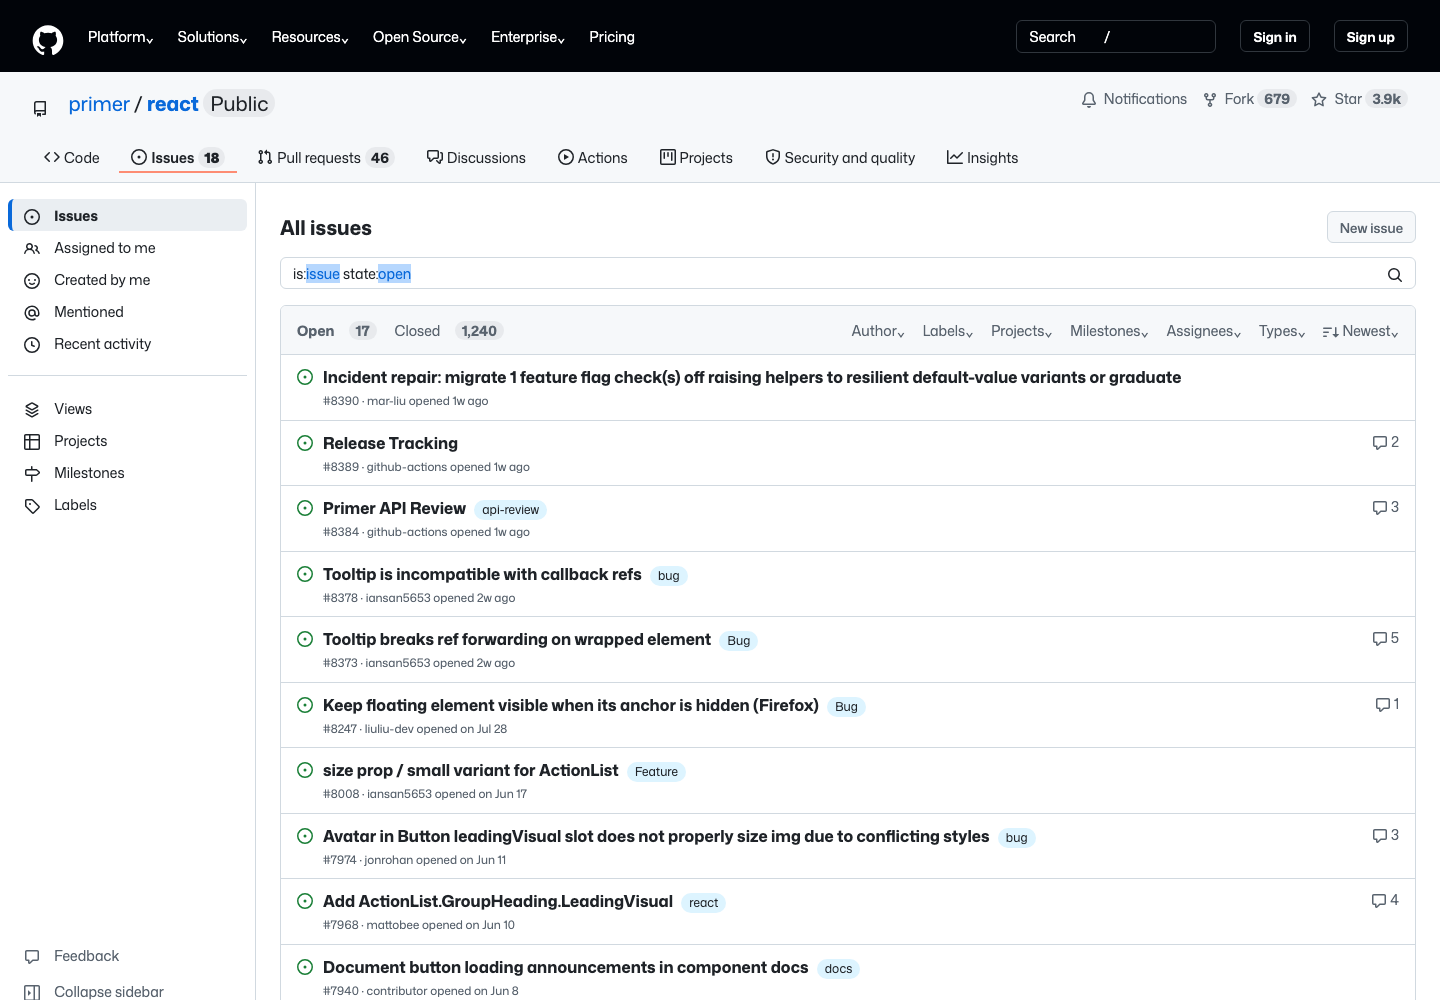
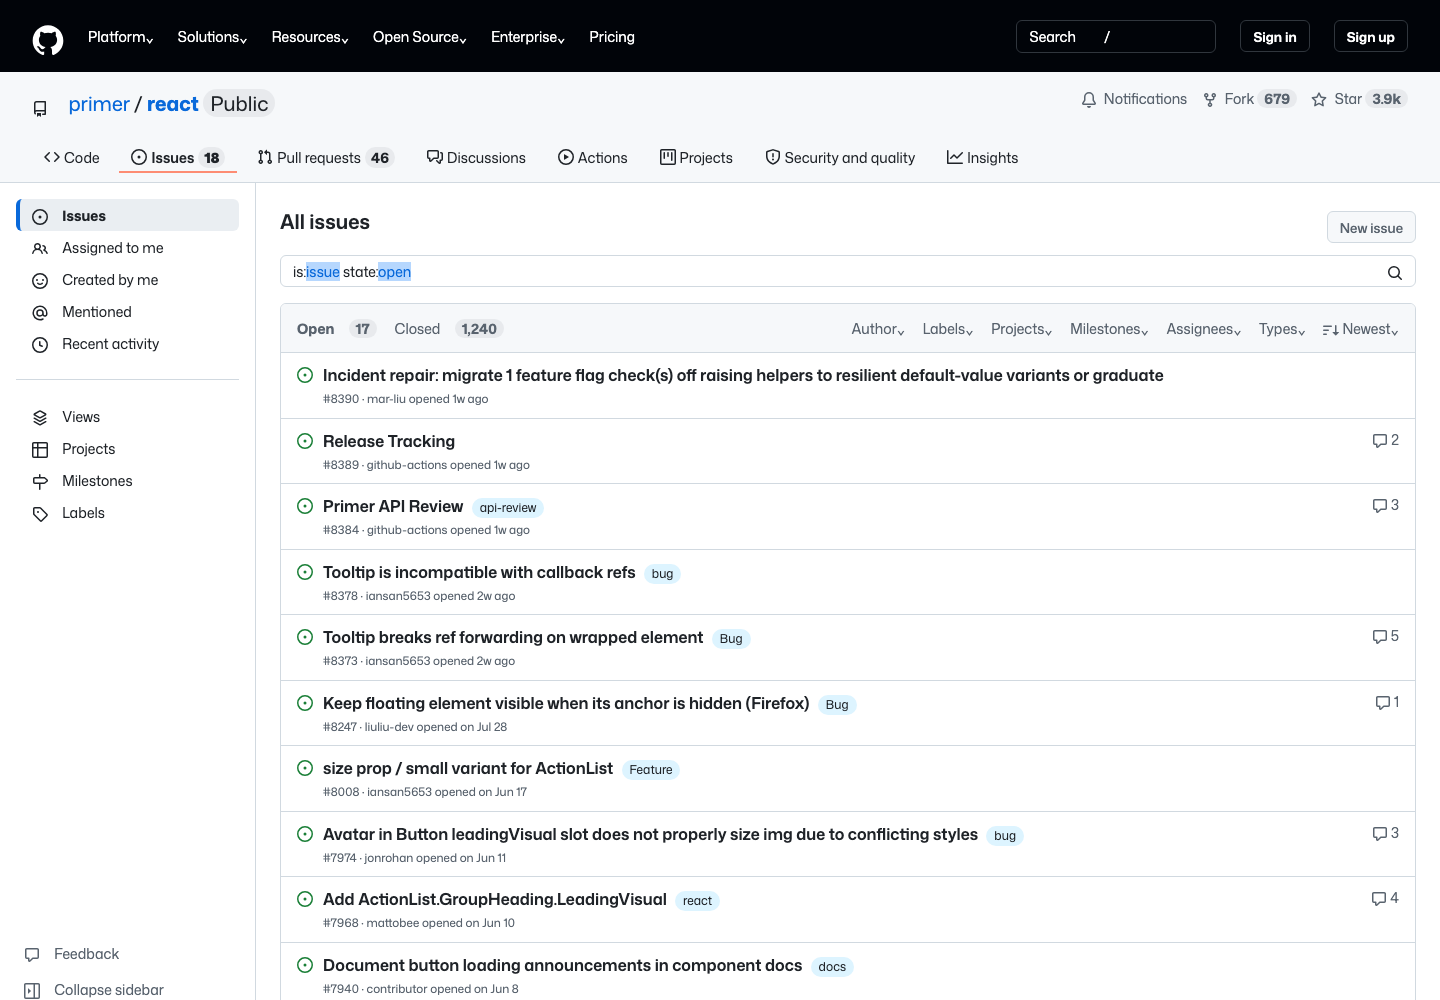
style: tighten issues and pull request fidelity

diff --git a/stories/storybook.css b/stories/storybook.css
@@ -84,9 +84,9 @@ body{font-family:"Mona Sans Variable","Mona Sans VF",-apple-system,BlinkMacSyste
 .file-layout{display:grid;grid-template-columns:320px minmax(0,1fr);height:818px}
 .file-tree{border-right:1px solid #d1d9e0;overflow:hidden;padding-top:16px}.file-tree h3{margin:0 16px 16px;font-size:16px}.tree-ref,.tree-find{margin:0 16px 8px;width:288px}.tree-ref{text-align:left}.tree-find{height:32px;border:1px solid #d1d9e0;border-radius:6px;padding:5px 10px;color:#59636e}.tree-list{border-top:1px solid #d1d9e0}.tree-row{height:32px;display:flex;align-items:center;gap:9px;padding:0 16px 0 40px;color:#59636e;white-space:nowrap}.tree-row .octicon{flex:0 0 auto}.tree-row:nth-child(-n+10) .octicon{color:#54aeff}.tree-row.selected{background:#f0f1f2;border-left:4px solid #0969da;padding-left:36px;color:#1f2328}
 .file-pane{min-width:0;padding:16px}.file-pane-title{height:32px;font-size:16px;display:flex;align-items:center;gap:8px;margin-bottom:16px}.file-pane-title .kebab{margin-left:auto}.bot-avatar{display:inline-flex;width:22px;height:22px;border-radius:50%;background:#ddf4ff;align-items:center;justify-content:center;color:#0969da}.commit-summary{overflow:hidden;text-overflow:ellipsis;white-space:nowrap}.github-code{margin-top:16px}.code-toolbar{height:44px;background:#f6f8fa;border-bottom:1px solid #d1d9e0;display:flex;align-items:center;padding:7px 8px;gap:0}.code-toolbar .btn{border-radius:0}.code-toolbar .btn:first-child{border-radius:6px 0 0 6px}.code-toolbar .btn:nth-child(2){border-radius:0 6px 6px 0}.code-toolbar .selected{background:#fff}.code-toolbar>.muted{margin-left:10px}.code-actions{margin-left:auto;color:#59636e}.github-code pre{height:645px;color:#1f2328;background:#fff;padding-left:42px}
-.issue-layout{display:grid;grid-template-columns:256px minmax(0,1fr);min-height:818px}.issue-side{position:relative;border-right:1px solid #d1d9e0;padding:16px 8px}.issue-side>b,.issue-side>span{display:block;height:32px;padding:6px 16px;border-radius:6px}.issue-side>b{background:#eaeef2;border-left:4px solid #0969da;padding-left:12px}.issue-side hr{border:0;border-top:1px solid #d1d9e0;margin:16px 0}.issue-side footer{position:absolute;left:24px;bottom:24px;line-height:36px;color:#59636e}.issue-pane{padding:24px;max-width:1184px}.issue-titlebar{height:40px;display:flex;align-items:center}.issue-titlebar h2{font-size:20px;margin:0}.new-disabled{margin-left:auto;color:#59636e}.issue-search{height:32px;border:1px solid #d1d9e0;border-radius:6px;background:#fff;padding:5px 12px;margin:10px 0 16px}.issue-search>span:last-child{float:right}.issue-search mark{background:#b6d7fe;color:#0969da}
-.github-issue-list,.pull-list{border:1px solid #d1d9e0;border-radius:6px;overflow:hidden}.issue-filters{height:48px;background:#f6f8fa;display:flex;align-items:center;gap:18px;padding:0 16px;color:#59636e}.filter-spacer{flex:1}.github-issue-row{min-height:65px;border-top:1px solid #d1d9e0;display:flex;align-items:flex-start;gap:10px;padding:10px 16px}.github-issue-row>.octicon{color:#1a7f37;margin-top:4px;flex:0 0 auto}.github-issue-row>div{min-width:0;flex:1}.github-issue-row b{font-size:16px}.github-issue-row small{display:block;margin-top:3px;color:#59636e}.label-chip{display:inline-block;padding:1px 8px;margin-left:5px;border-radius:999px;background:#ddf4ff;font-size:12px}.label-chip.danger{background:#ff8182;color:#1f2328}.github-issue-row .row-end{margin-left:auto;color:#59636e;white-space:nowrap}
-.pull-layout{max-width:1216px;margin:24px auto}.pull-toolbar{display:flex;gap:8px;margin-bottom:16px}.pull-toolbar .issue-search{margin:0;flex:1}.pull-toolbar .btn.green{margin-left:0}.pull-list .github-issue-row{min-height:65px}.pull-list .issue-filters{height:54px}
+.issue-layout{display:grid;grid-template-columns:256px minmax(0,1fr);min-height:818px}.issue-side{position:relative;border-right:1px solid #d1d9e0;padding:16px 16px}.issue-side>b,.issue-side>span{display:block;height:32px;padding:6px 16px;border-radius:6px}.issue-side>b{background:#eaeef2;border-left:4px solid #0969da;padding-left:12px}.issue-side hr{border:0;border-top:1px solid #d1d9e0;margin:20px 0}.issue-side footer{position:absolute;left:24px;bottom:24px;line-height:36px;color:#59636e}.issue-pane{padding:24px;max-width:1184px}.issue-titlebar{height:40px;display:flex;align-items:center}.issue-titlebar h2{position:relative;top:-6px;font-size:20px;font-weight:600;margin:0}.new-disabled{margin-left:auto;color:#59636e}.issue-search{height:32px;border:1px solid #d1d9e0;border-radius:6px;background:#fff;padding:5px 12px;margin:8px 0 16px}.issue-search>span:last-child{float:right}.issue-search mark{background:#b6d7fe;color:#0969da}
+.github-issue-list,.pull-list{border:1px solid #d1d9e0;border-radius:6px;overflow:hidden}.issue-filters{height:48px;background:#f6f8fa;display:flex;align-items:center;gap:18px;padding:0 16px;color:#59636e}.filter-spacer{flex:1}.github-issue-row{min-height:65px;border-top:1px solid #d1d9e0;display:flex;align-items:flex-start;gap:10px;padding:10px 16px}.github-issue-row>.octicon{color:#1a7f37;margin-top:4px;flex:0 0 auto}.github-issue-row>div{min-width:0;flex:1}.github-issue-row b{font-size:16px;font-weight:600}.github-issue-row small{display:block;margin-top:3px;color:#59636e}.label-chip{display:inline-block;padding:1px 8px;margin-left:5px;border-radius:999px;background:#ddf4ff;font-size:12px}.label-chip.danger{background:#ff8182;color:#1f2328}.github-issue-row .row-end{margin-left:auto;color:#59636e;white-space:nowrap}
+.pull-layout{max-width:1216px;margin:23px auto}.pull-toolbar{display:flex;gap:0;margin-bottom:16px}.pull-toolbar .issue-search{margin:0 16px 0 0;flex:1}.pull-toolbar .btn:nth-of-type(1){width:135.0625px;border-radius:6px 0 0 6px}.pull-toolbar .btn:nth-of-type(2){width:149.890625px;border-radius:0 6px 6px 0}.pull-toolbar .btn.green{width:137.140625px;margin-left:8px}.pull-list .github-issue-row{min-height:68.3125px}.pull-list .issue-filters{height:54px}
 .commit-screen{max-width:1000px;margin:24px auto}.commit-screen h2{font-size:24px}.commit-day{border-left:2px solid #d1d9e0;padding-left:24px}.commit-day>b{display:block;margin-bottom:12px}.commit-row{position:relative;min-height:72px;margin:0;border:1px solid #d1d9e0;border-bottom:0;border-left:0;padding:12px 12px 10px 24px}.commit-row:last-child{border-bottom:1px solid #d1d9e0}.commit-node{position:absolute;left:-36px;top:14px;background:#fff}.commit-row small{display:block;color:#59636e;margin-top:3px}.commit-row code{margin-left:auto}.commit-row .icon-btn{margin-left:8px}
 @media(max-width:700px){.file-layout{display:block;height:auto}.file-tree{display:none}.file-pane{padding:16px 8px}.file-pane-title{margin-inline:8px}.github-code pre{height:620px}.issue-layout{display:block}.issue-side{display:none}.issue-pane{padding:16px 8px}.issue-titlebar{padding-inline:8px}.pull-layout{margin:16px 8px}.pull-toolbar{flex-wrap:wrap}.pull-toolbar .issue-search{flex-basis:100%}.issue-filters{overflow:hidden;white-space:nowrap}.commit-screen{margin:16px}.repo-actions,.gh-auth{display:none}}
 
